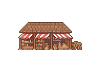
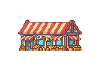
fix(content,ui,art): 铁矿场/煤矿场换成 sprite 整图 + 贸易市场换图并挪到「市政」页 + 游商入口不再依赖那座建筑
用户："1、市场这个建筑没了，这样游商系统的入口在哪里？2、铁/煤矿场的建筑不对，
我再给一次图片，替换一下，市场的图片我也给了。"

三张图其实早就在 `godot/assets/building_src/` 里（`iron_mine.png` 128x82 /
`coal_mine.png` 128x79 / `market.png` 128x63，与用户这次给的逐字节相同），问题在于
**没接上**：

1. 铁矿场 / 煤矿场 content 里一直写着 `arch:"extract"`，gen:art 走程序化分支画的是
   64x48 的占位房子 —— 整图从来没被用过（`FORCE_HALF` 里明明早就列了这两座）。
   现在改成 `arch:"sprite"` + 显式 `art.foot`：128x82 → 64x41 → 4x1、128x79 → 64x39 → 4x1
   （按 docs/buildings-batch2.md 当时算好的表）。占用从 4x2 变 4x1，贴图比占地高
   25 / 23px，往上伸、按 y 排序遮挡，和伐木场那一档一致。
2. 贸易市场换图：`building_src/market.png`（128x63）→ `trade_market.png`（原 128x57），
   占地 8x2 不变（floor(63/16)-1）。重复的 `market.png` 删掉。
3. 市场"没了"的真因：它没有 recipe，按 arch 推导掉进「工业」页 —— 那页 14 张卡、
   要翻页，它就藏在第 2 页最后一格。挪到「市政」页（`ContentDB.CAT_CIVIC`），
   和仓库 / 建筑工坊 / 研究所一起，4 张卡一眼看得见。
4. 游商入口：`贸易` 圆钮原来**要求村里已有贸易市场**才出现，于是"找不到市场"就等于
   整个游商系统在界面上不存在。改成 **通商科技研究完 或 已有市场** 就出现 ——
   游商本身是引擎侧的（第 3 章之后每周一批），不依赖那座建筑，建筑只是地图上的快捷入口。

门槛：`tradepanel` 加两条断言（市政页里有贸易市场、研究「通商」之后圆钮出现、
且工业页里不许再有它），红了就说明入口又丢了。

对账：`npm test` 全绿；`bash verify.sh` 全套（49 步）ALL CHECKS PASSED；
`npm run check:footprint` 48 座 sprite（显式覆盖仍是 3 座）；exe 重打并冒烟通过。

Changed region(s): [[0.18, 0.2778, 0.84, 0.7222]]

diff --git a/docs/technology.md b/docs/technology.md
@@ -624,6 +624,9 @@ want = max(0, min(shop.targetWorkers, slots))
   （`build_bar.gd` 的 `CIVIC` 白名单），把**仓库 / 建筑工坊 / 研究所**这三座没有
   `recipe` 的服务建筑从「工业」里挪出来 —— 它们跟工坊不是一类东西。
   用户点名："建筑菜单加一个 tab 是市政，把仓库/建造中心/研究中心放进去"。
+  ⚠ 2026-10 又加了一座 **贸易市场**（同样没有 `recipe`）：它原来按 arch 推导掉进
+  「工业」页，而工业页有 14 张卡、要翻页，它就藏在第 2 页最后一格 —— 用户的原话是
+  "市场这个建筑没了"。现在它在市政页（4 张卡，一眼看得见），见 `docs/town.md` §二十五。
 
 ---
 
